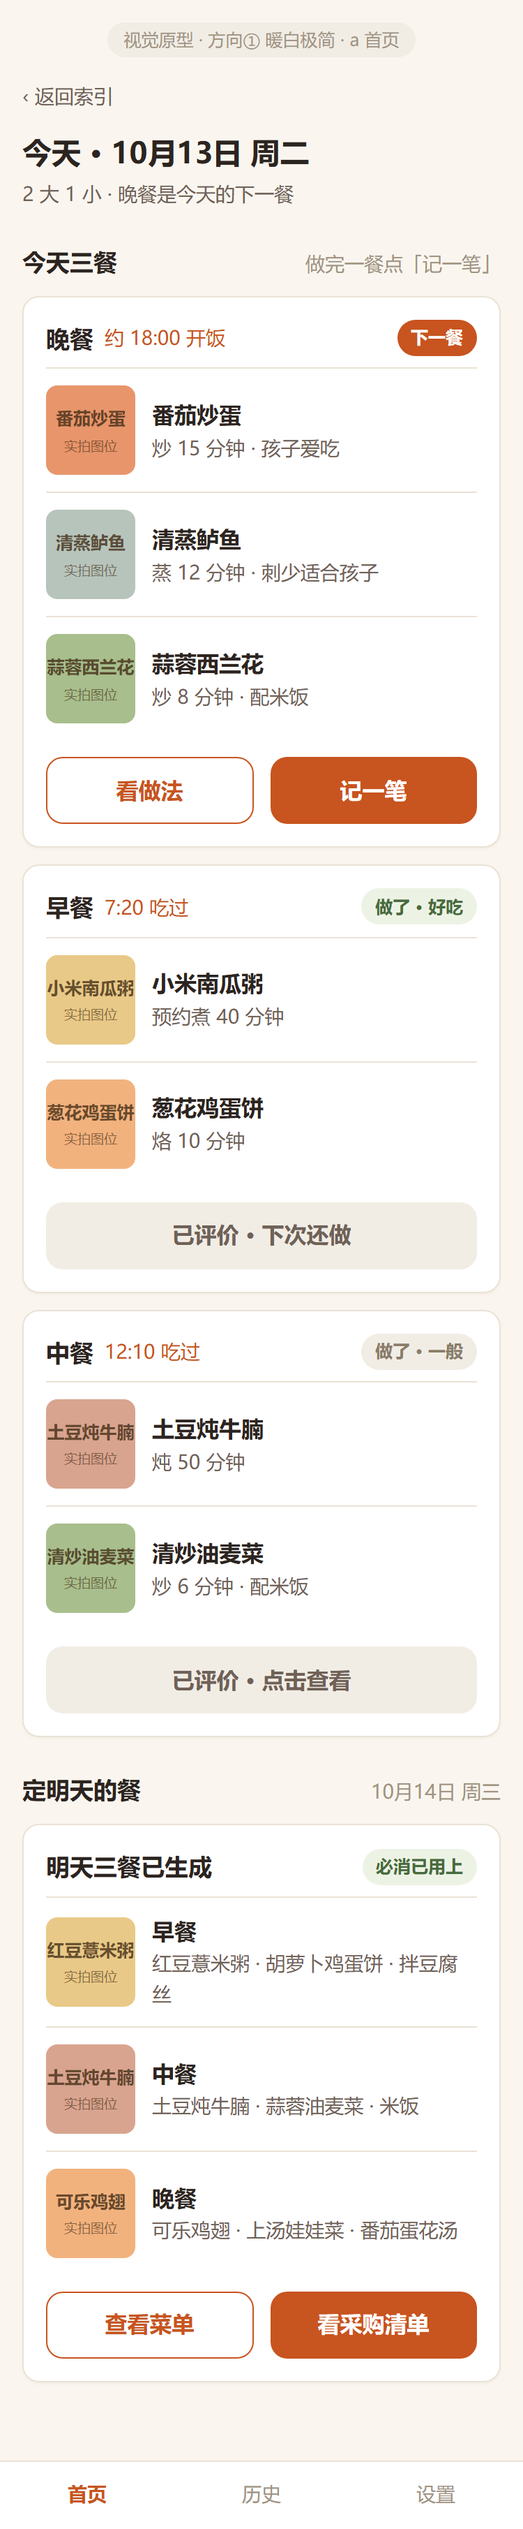
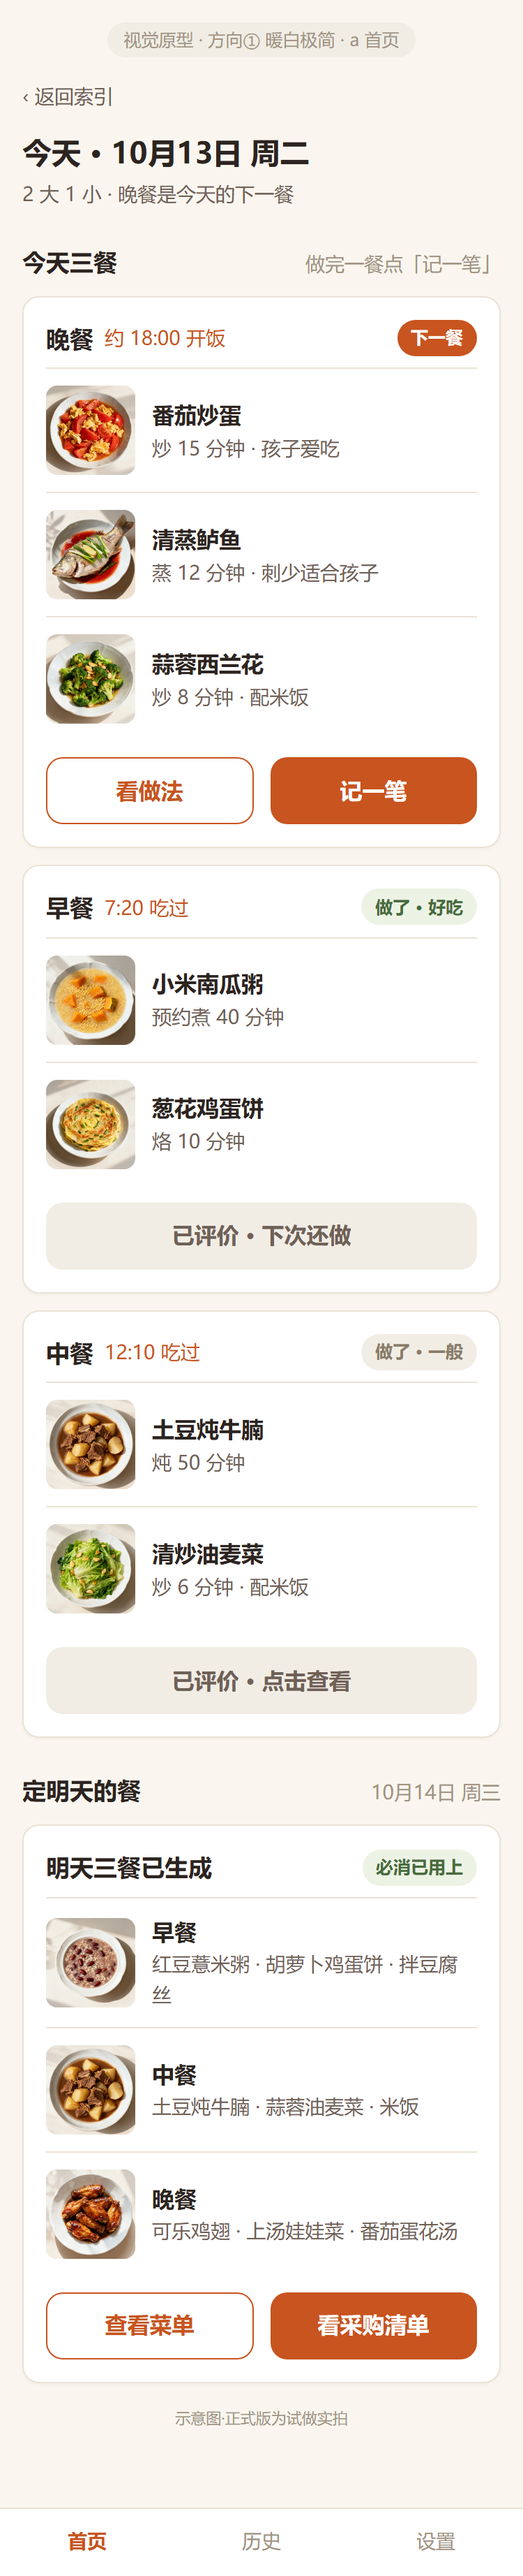
feat(q7): 方向①原型配示意菜品图（11 张，正式版试做实拍口径不变）
- assets/dishes/ 11 张 AI 示意图（端点实际返回 JPEG，MD5 唯一，逐张目检对题）
- style-1 a/b/c：菜品行占位块换 img，保留 ph-N 暖色底作加载降级，圆角随 token
- 三页底部加「示意图·正式版为试做实拍」11px 弱化小字；②③ 不动
- index 方向①卡片加（已配示意图）并修正底部口径；README 补示意图来源
- shoot.mjs 支持按名筛选，重截 1a/1b/1c（375×812，无浏览器错误）

diff --git a/docs/design/v2/prototypes/style-1/a.html b/docs/design/v2/prototypes/style-1/a.html
@@ -30,21 +30,21 @@
         <span class="tag tag-next">下一餐</span>
       </div>
       <div class="dish">
-        <div class="ph ph-2"><b>番茄炒蛋</b><i>实拍图位</i></div>
+        <img class="dish-img ph-2" src="../assets/dishes/tomato-eggs.jpg" alt="番茄炒蛋（示意图）">
         <div class="dish-info">
           <div class="dish-name">番茄炒蛋</div>
           <div class="dish-meta">炒 15 分钟 · 孩子爱吃</div>
         </div>
       </div>
       <div class="dish">
-        <div class="ph ph-6"><b>清蒸鲈鱼</b><i>实拍图位</i></div>
+        <img class="dish-img ph-6" src="../assets/dishes/steamed-seabass.jpg" alt="清蒸鲈鱼（示意图）">
         <div class="dish-info">
           <div class="dish-name">清蒸鲈鱼</div>
           <div class="dish-meta">蒸 12 分钟 · 刺少适合孩子</div>
         </div>
       </div>
       <div class="dish">
-        <div class="ph ph-3"><b>蒜蓉西兰花</b><i>实拍图位</i></div>
+        <img class="dish-img ph-3" src="../assets/dishes/garlic-broccoli.jpg" alt="蒜蓉西兰花（示意图）">
         <div class="dish-info">
           <div class="dish-name">蒜蓉西兰花</div>
           <div class="dish-meta">炒 8 分钟 · 配米饭</div>
@@ -63,14 +63,14 @@
         <span class="tag tag-ok">做了 · 好吃</span>
       </div>
       <div class="dish">
-        <div class="ph ph-4"><b>小米南瓜粥</b><i>实拍图位</i></div>
+        <img class="dish-img ph-4" src="../assets/dishes/millet-pumpkin-congee.jpg" alt="小米南瓜粥（示意图）">
         <div class="dish-info">
           <div class="dish-name">小米南瓜粥</div>
           <div class="dish-meta">预约煮 40 分钟</div>
         </div>
       </div>
       <div class="dish">
-        <div class="ph ph-1"><b>葱花鸡蛋饼</b><i>实拍图位</i></div>
+        <img class="dish-img ph-1" src="../assets/dishes/scallion-egg-pancake.jpg" alt="葱花鸡蛋饼（示意图）">
         <div class="dish-info">
           <div class="dish-name">葱花鸡蛋饼</div>
           <div class="dish-meta">烙 10 分钟</div>
@@ -88,14 +88,14 @@
         <span class="tag tag-mid">做了 · 一般</span>
       </div>
       <div class="dish">
-        <div class="ph ph-5"><b>土豆炖牛腩</b><i>实拍图位</i></div>
+        <img class="dish-img ph-5" src="../assets/dishes/beef-potato-stew.jpg" alt="土豆炖牛腩（示意图）">
         <div class="dish-info">
           <div class="dish-name">土豆炖牛腩</div>
           <div class="dish-meta">炖 50 分钟</div>
         </div>
       </div>
       <div class="dish">
-        <div class="ph ph-3"><b>清炒油麦菜</b><i>实拍图位</i></div>
+        <img class="dish-img ph-3" src="../assets/dishes/stir-fried-lettuce.jpg" alt="清炒油麦菜（示意图）">
         <div class="dish-info">
           <div class="dish-name">清炒油麦菜</div>
           <div class="dish-meta">炒 6 分钟 · 配米饭</div>
@@ -119,21 +119,21 @@
         <span class="tag tag-ok">必消已用上</span>
       </div>
       <div class="dish">
-        <div class="ph ph-4"><b>红豆薏米粥</b><i>实拍图位</i></div>
+        <img class="dish-img ph-4" src="../assets/dishes/red-bean-barley-congee.jpg" alt="红豆薏米粥（示意图）">
         <div class="dish-info">
           <div class="dish-name">早餐</div>
           <div class="dish-meta">红豆薏米粥 · 胡萝卜鸡蛋饼 · 拌豆腐丝</div>
         </div>
       </div>
       <div class="dish">
-        <div class="ph ph-5"><b>土豆炖牛腩</b><i>实拍图位</i></div>
+        <img class="dish-img ph-5" src="../assets/dishes/beef-potato-stew.jpg" alt="土豆炖牛腩（示意图）">
         <div class="dish-info">
           <div class="dish-name">中餐</div>
           <div class="dish-meta">土豆炖牛腩 · 蒜蓉油麦菜 · 米饭</div>
         </div>
       </div>
       <div class="dish">
-        <div class="ph ph-1"><b>可乐鸡翅</b><i>实拍图位</i></div>
+        <img class="dish-img ph-1" src="../assets/dishes/cola-chicken-wings.jpg" alt="可乐鸡翅（示意图）">
         <div class="dish-info">
           <div class="dish-name">晚餐</div>
           <div class="dish-meta">可乐鸡翅 · 上汤娃娃菜 · 番茄蛋花汤</div>
@@ -145,6 +145,7 @@
       </div>
     </div>
   </section>
+  <p class="img-note">示意图·正式版为试做实拍</p>
 </div>
 
 <nav class="tabbar">

diff --git a/docs/design/v2/prototypes/style-1/b.html b/docs/design/v2/prototypes/style-1/b.html
@@ -25,7 +25,7 @@
     </div>
     <div class="card">
       <div class="dish">
-        <div class="ph ph-4"><b>红豆薏米粥</b><i>实拍图位</i></div>
+        <img class="dish-img ph-4" src="../assets/dishes/red-bean-barley-congee.jpg" alt="红豆薏米粥（示意图）">
         <div class="dish-info">
           <div class="dish-name">红豆薏米粥</div>
           <div class="dish-meta">预约煮 40 分钟</div>
@@ -33,7 +33,7 @@
         <a class="btn btn-sm btn-ghost" href="#">换一道</a>
       </div>
       <div class="dish">
-        <div class="ph ph-1"><b>胡萝卜鸡蛋饼</b><i>实拍图位</i></div>
+        <img class="dish-img ph-1" src="../assets/dishes/scallion-egg-pancake.jpg" alt="胡萝卜鸡蛋饼（示意图）">
         <div class="dish-info">
           <div class="dish-name">胡萝卜鸡蛋饼</div>
           <div class="dish-meta">烙 12 分钟 · 用上必消鸡蛋</div>
@@ -61,7 +61,7 @@
     </div>
     <div class="card">
       <div class="dish">
-        <div class="ph ph-5"><b>土豆炖牛腩</b><i>实拍图位</i></div>
+        <img class="dish-img ph-5" src="../assets/dishes/beef-potato-stew.jpg" alt="土豆炖牛腩（示意图）">
         <div class="dish-info">
           <div class="dish-name">土豆炖牛腩</div>
           <div class="dish-meta">炖 50 分钟 · 可昨晚先预处理</div>
@@ -69,7 +69,7 @@
         <a class="btn btn-sm btn-ghost" href="#">换一道</a>
       </div>
       <div class="dish">
-        <div class="ph ph-3"><b>蒜蓉油麦菜</b><i>实拍图位</i></div>
+        <img class="dish-img ph-3" src="../assets/dishes/stir-fried-lettuce.jpg" alt="蒜蓉油麦菜（示意图）">
         <div class="dish-info">
           <div class="dish-name">蒜蓉油麦菜</div>
           <div class="dish-meta">炒 6 分钟</div>
@@ -97,7 +97,7 @@
     </div>
     <div class="card">
       <div class="dish">
-        <div class="ph ph-1"><b>可乐鸡翅</b><i>实拍图位</i></div>
+        <img class="dish-img ph-1" src="../assets/dishes/cola-chicken-wings.jpg" alt="可乐鸡翅（示意图）">
         <div class="dish-info">
           <div class="dish-name">可乐鸡翅</div>
           <div class="dish-meta">烧 35 分钟 · 孩子爱吃</div>
@@ -105,7 +105,7 @@
         <a class="btn btn-sm btn-ghost" href="#">换一道</a>
       </div>
       <div class="dish">
-        <div class="ph ph-3"><b>上汤娃娃菜</b><i>实拍图位</i></div>
+        <img class="dish-img ph-3" src="../assets/dishes/baby-cabbage-soup.jpg" alt="上汤娃娃菜（示意图）">
         <div class="dish-info">
           <div class="dish-name">上汤娃娃菜</div>
           <div class="dish-meta">煮 15 分钟</div>
@@ -113,7 +113,7 @@
         <a class="btn btn-sm btn-ghost" href="#">换一道</a>
       </div>
       <div class="dish">
-        <div class="ph ph-2"><b>番茄蛋花汤</b><i>实拍图位</i></div>
+        <img class="dish-img ph-2" src="../assets/dishes/tomato-egg-soup.jpg" alt="番茄蛋花汤（示意图）">
         <div class="dish-info">
           <div class="dish-name">番茄蛋花汤</div>
           <div class="dish-meta">煮 10 分钟 · 用上必消番茄</div>
@@ -138,6 +138,7 @@
     </div>
   </section>
 
+  <p class="img-note">示意图·正式版为试做实拍</p>
   <div class="stickybar">
     <a class="btn btn-ghost" href="#">全部换一批</a>
     <a class="btn" href="c.html">确认三餐，查看采购清单</a>

diff --git a/docs/design/v2/prototypes/index.html b/docs/design/v2/prototypes/index.html
@@ -31,7 +31,7 @@
       <span class="sw" style="background:#C8541F"></span>
       <span class="dir-name">方向① 暖白极简</span>
     </div>
-    <div class="dir-desc">米白底 + 深棕字 + 暖陶橙 #C8541F 点缀。分区靠留白与细线，几乎无阴影；高对比、大留白，长辈友好最强（主控推荐）。</div>
+    <div class="dir-desc">米白底 + 深棕字 + 暖陶橙 #C8541F 点缀。分区靠留白与细线，几乎无阴影；高对比、大留白，长辈友好最强（主控推荐）。（已配示意图）</div>
     <div class="links">
       <a style="background:#C8541F" href="./style-1/a.html">a 首页</a>
       <a style="background:#C8541F" href="./style-1/b.html">b 三餐菜单</a>
@@ -65,7 +65,7 @@
     </div>
   </div>
 
-  <p class="note">静态原型：菜名为真实家庭菜谱语境，菜品图一律「占位色块 + 实拍图位」标注，不使用 AI 菜品图。数据为同一份示例（2 大 1 小 · 10月14日三餐），便于纯视觉对比。</p>
+  <p class="note">静态原型：菜名为真实家庭菜谱语境。方向① 已配 AI 示意菜品图（页面标注「示意图·正式版为试做实拍」）；②③ 仍为「占位色块 + 实拍图位」标注。数据为同一份示例（2 大 1 小 · 10月14日三餐），便于纯视觉对比。</p>
 </div>
 </body>
 </html>

diff --git a/docs/design/v2/prototypes/style-1/style.css b/docs/design/v2/prototypes/style-1/style.css
@@ -86,6 +86,9 @@ a { color: inherit; text-decoration: none; }
 .ph i { font-style: normal; font-size: 9.5px; opacity: .75; }
 .ph-1 { background: var(--ph-1); } .ph-2 { background: var(--ph-2); } .ph-3 { background: var(--ph-3); }
 .ph-4 { background: var(--ph-4); } .ph-5 { background: var(--ph-5); } .ph-6 { background: var(--ph-6); }
+/* 示意菜品图：保留 ph-N 暖色底作加载失败降级，圆角随 token */
+.dish-img { width: 64px; height: 64px; flex: none; border-radius: var(--r-1); object-fit: cover; display: block; }
+.img-note { font-size: 11px; color: var(--c-ink-3); text-align: center; margin-top: var(--sp-4); }
 .dish-info { flex: 1; min-width: 0; }
 .dish-name { font-size: var(--fs-body); font-weight: 600; }
 .dish-meta { font-size: var(--fs-small); color: var(--c-ink-2); }

diff --git a/docs/design/v2/prototypes/style-1/c.html b/docs/design/v2/prototypes/style-1/c.html
@@ -114,6 +114,7 @@
     </div>
   </section>
 
+  <p class="img-note">示意图·正式版为试做实拍</p>
   <div class="stickybar">
     <a class="btn btn-ghost" href="#">发给家人</a>
     <a class="btn" href="#">就按这个买（8 样待买）</a>

diff --git a/docs/design/v2/prototypes/README.md b/docs/design/v2/prototypes/README.md
@@ -1,6 +1,6 @@
 # 视觉方向原型 ×3（T-Q07）
 
-3 套方向 × 3 关键屏（a 首页双区 / b 三餐菜单 / c 采购清单+备菜建议），静态 HTML，同一份示例内容（2 大 1 小 · 10月14日三餐），只换视觉语言。每套方向 1 个共享 CSS 变量组（`style-N/style.css` 顶部 `:root`：色板/字阶/圆角/阴影），换 token 即换风格；不引外部框架。菜品图位一律「占位色块 + 菜名 + 实拍图位」标注。
+3 套方向 × 3 关键屏（a 首页双区 / b 三餐菜单 / c 采购清单+备菜建议），静态 HTML，同一份示例内容（2 大 1 小 · 10月14日三餐），只换视觉语言。每套方向 1 个共享 CSS 变量组（`style-N/style.css` 顶部 `:root`：色板/字阶/圆角/阴影），换 token 即换风格；不引外部框架。菜品图位默认「占位色块 + 菜名 + 实拍图位」标注；方向① 已迭代配 AI 示意菜品图（`assets/dishes/`，11 张，页面标注「示意图·正式版为试做实拍」——正式版仍为试做实拍，DEC-007 口径不变）。
 
 ## 方向① 暖白极简（主控推荐，#C8541F）
 
